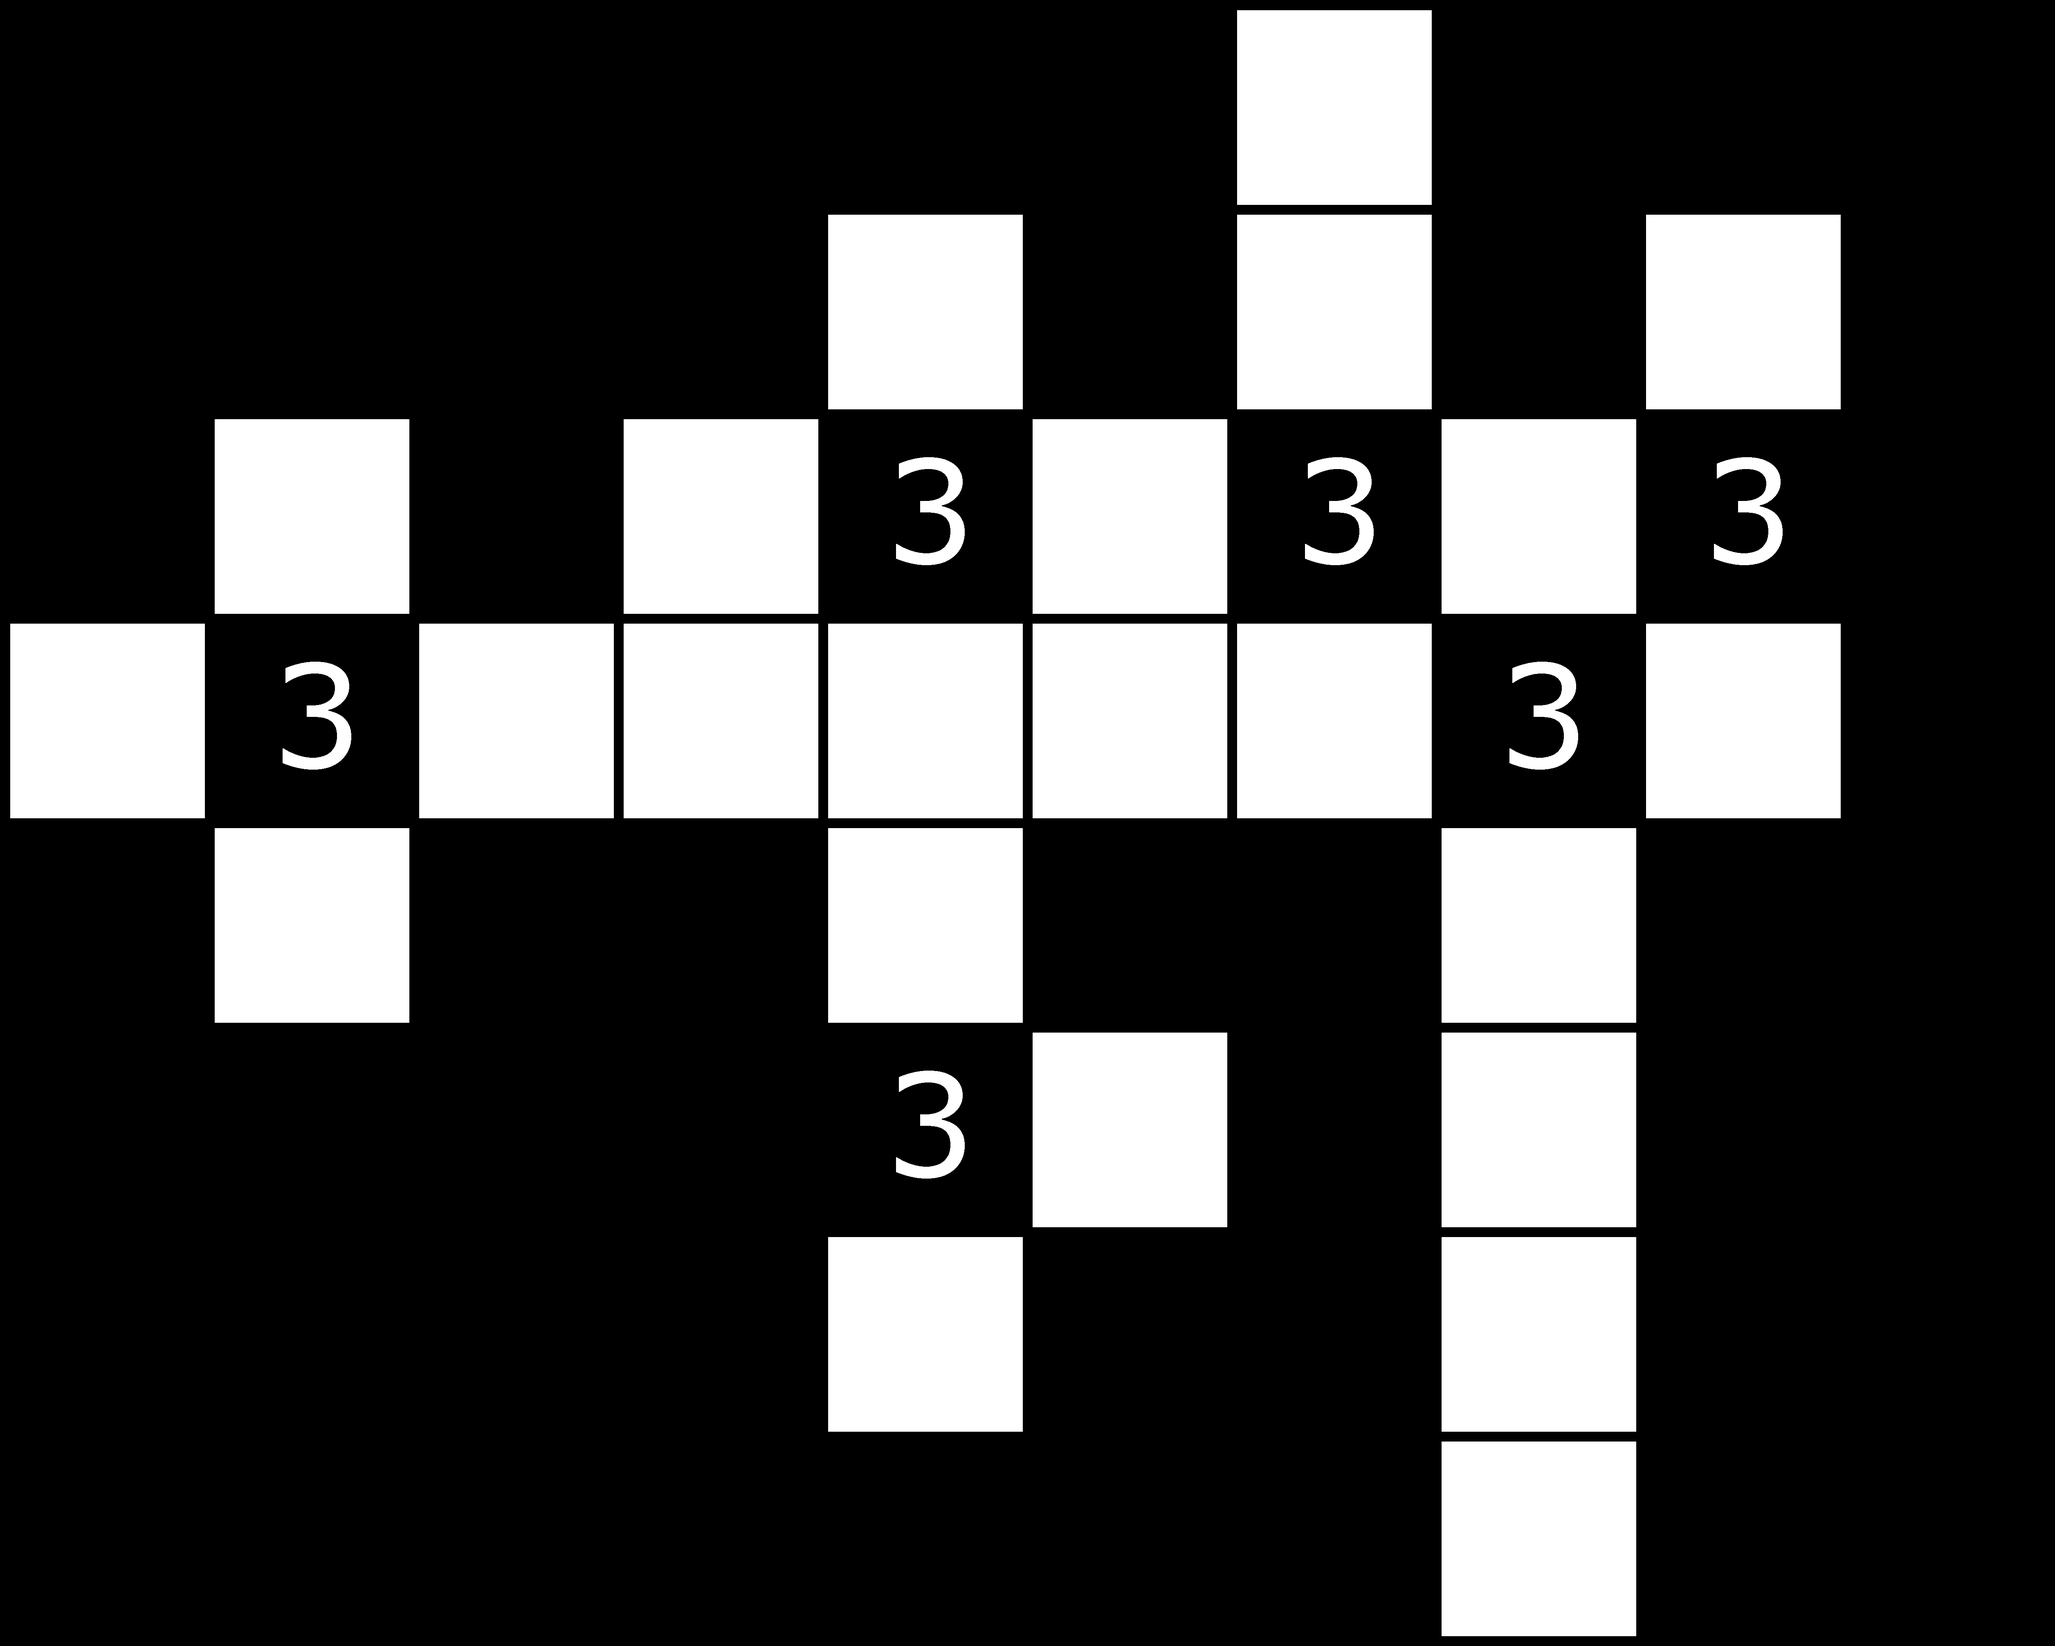
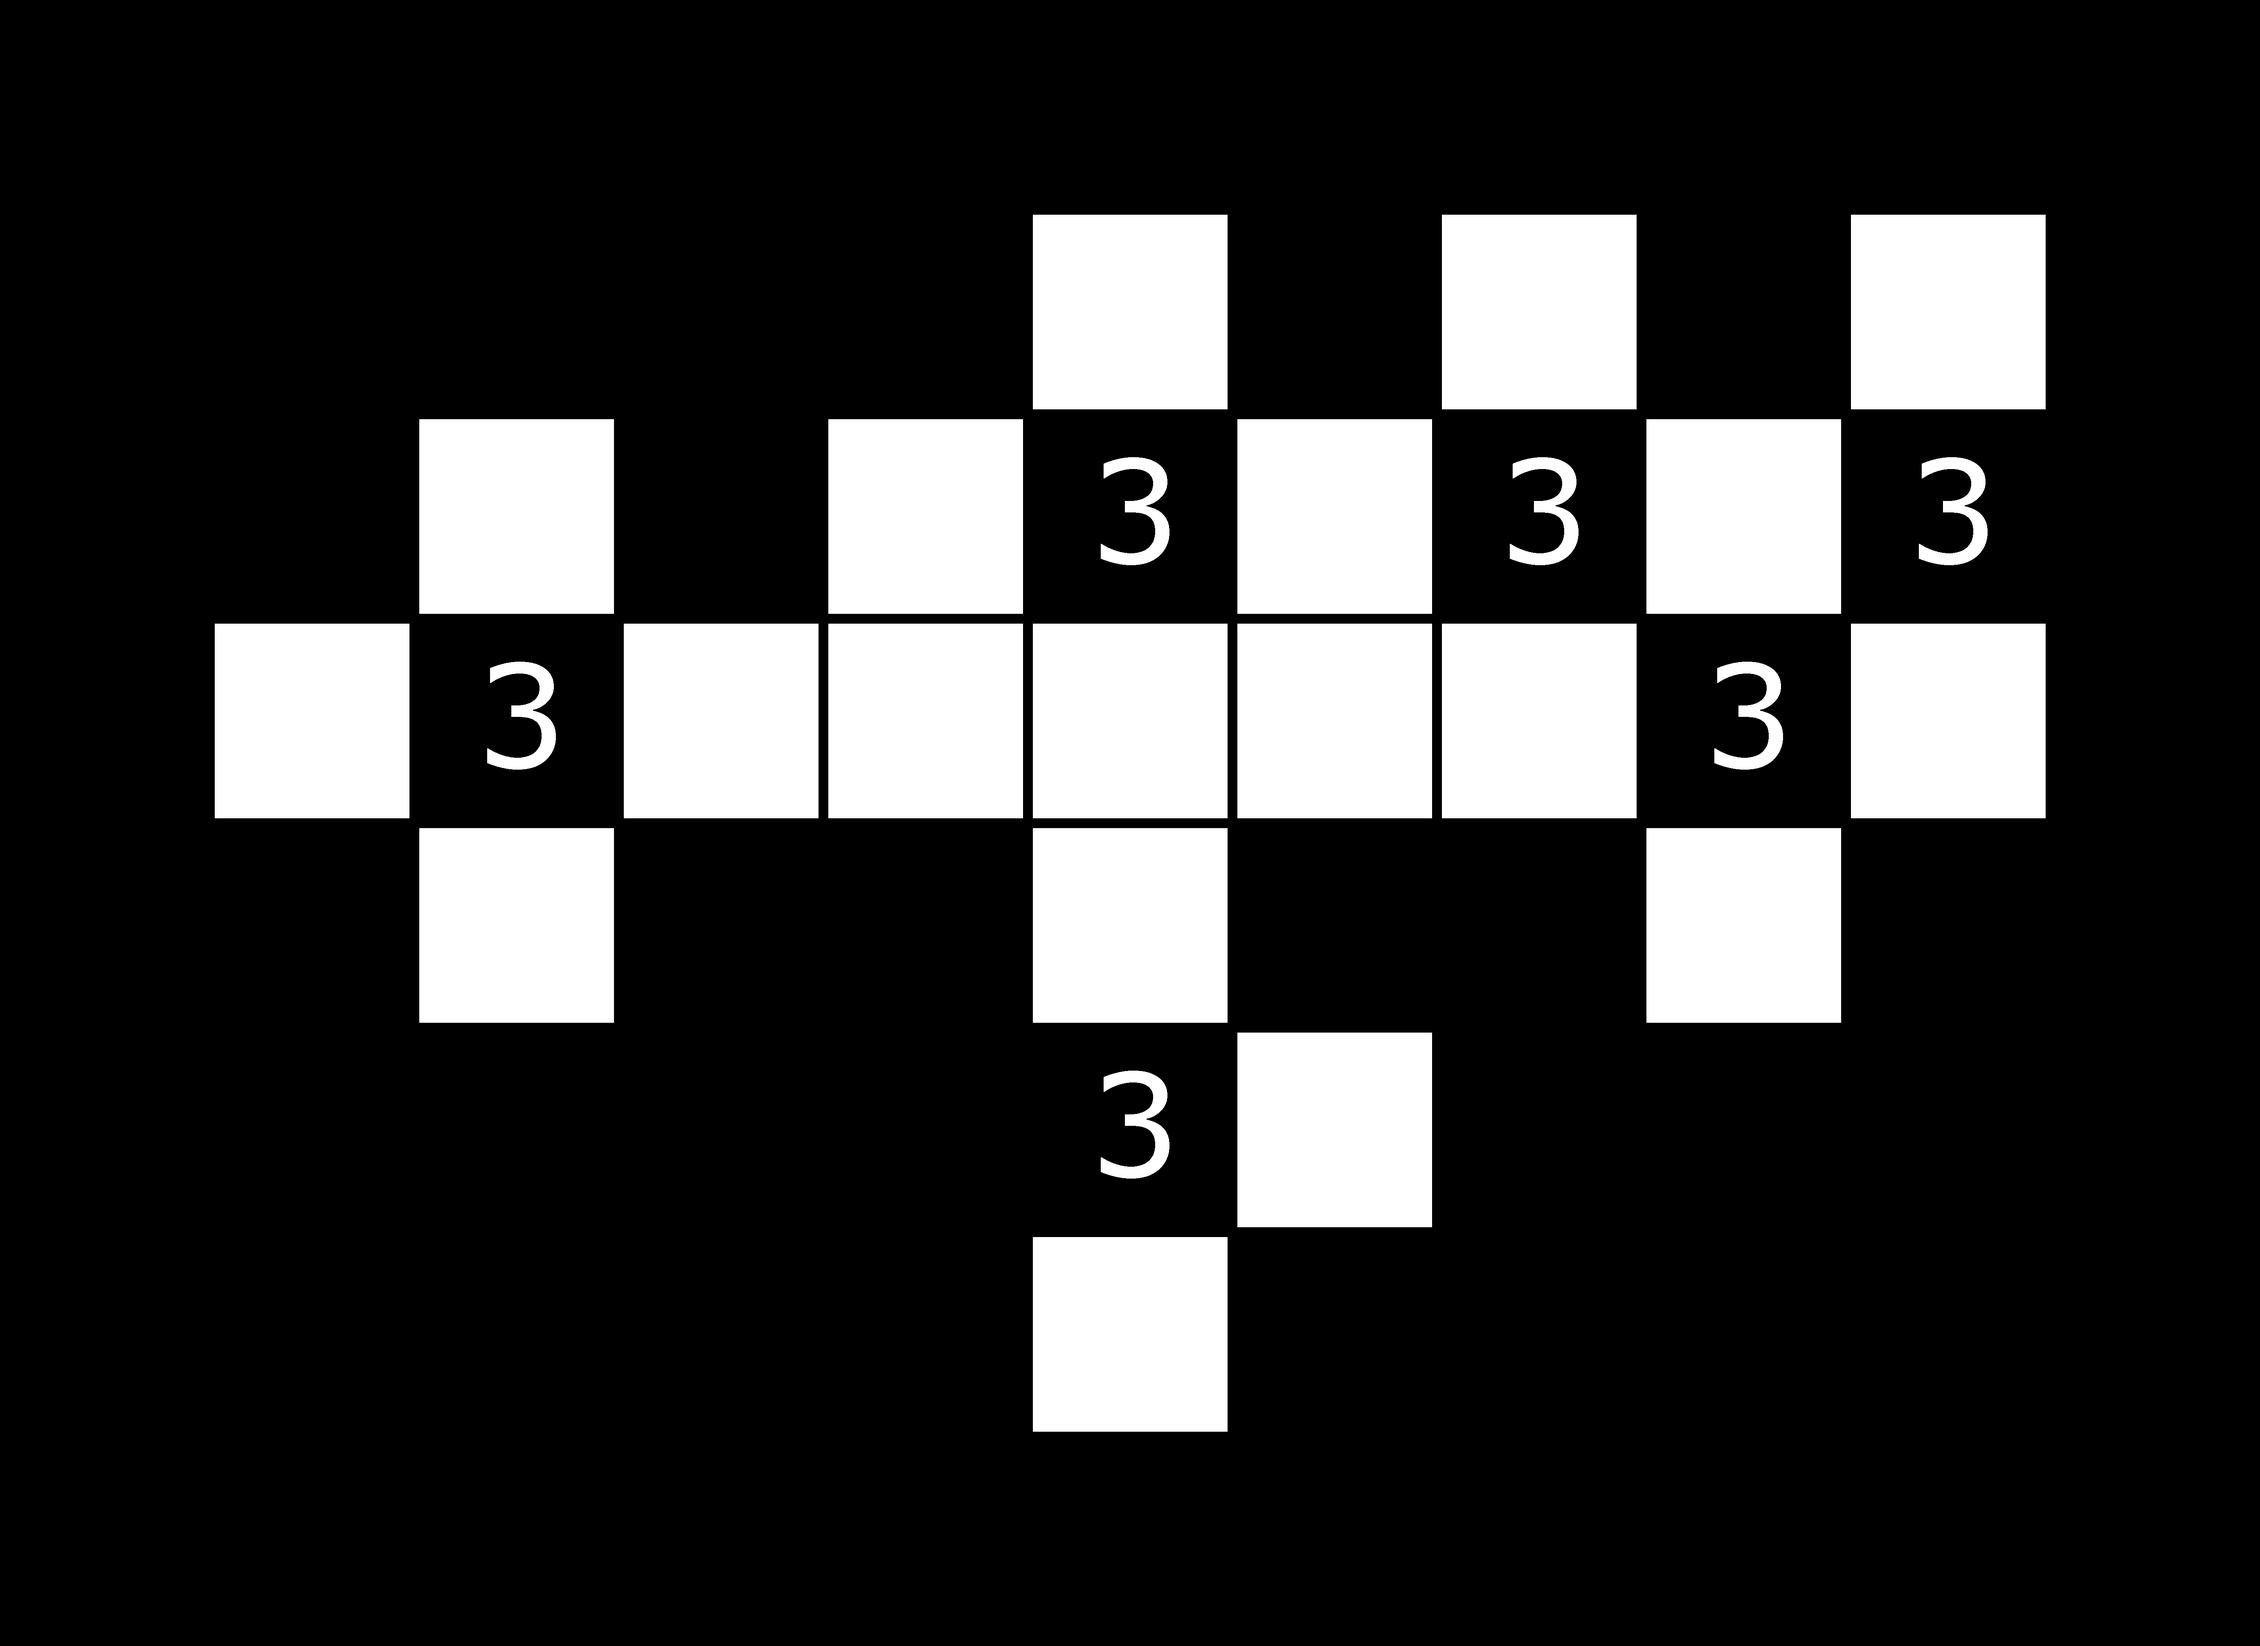
Improve gadgets.

diff --git a/src/akari.py b/src/akari.py
@@ -11,6 +11,11 @@ from tracksolver import tracksolve, tracksolves, trackunique, trackdifficulty
 
 
 def main():
+    filename = 'misc/gadgets/3/wires'
+    puzzle = loadhans(filename)
+    display(puzzle)
+    draw(puzzle, filename)
+
     # for index in range(300):
         # puzzle = loadpuzzle('misc/web/14x14_easy', index, 14, 14)
         # whole, part, branches = trackdifficulty(puzzle)
